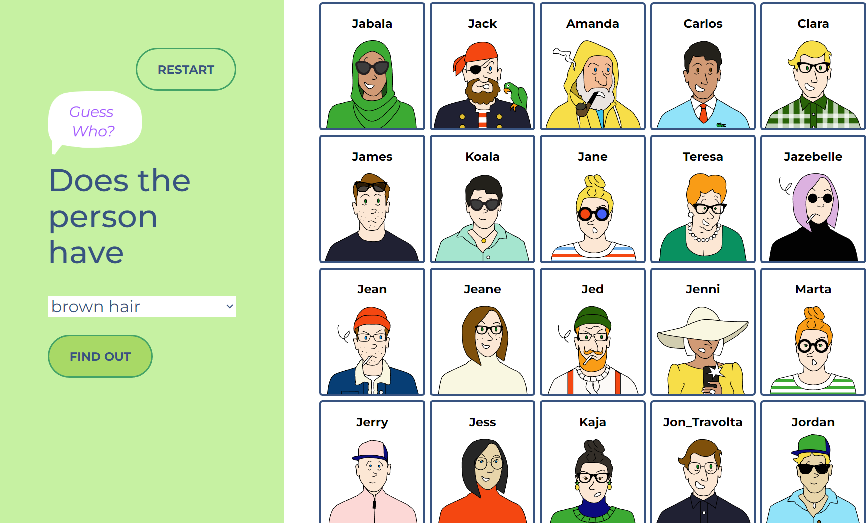
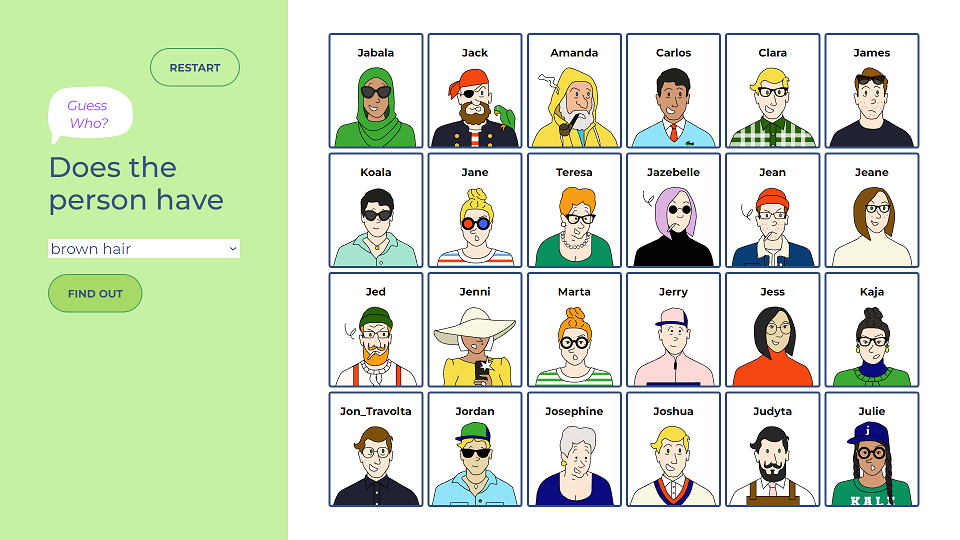
styling desktop

diff --git a/index2.html b/index2.html
@@ -56,51 +56,81 @@
             </div>    
             <div class="projects">
                 <h1>FEAUTURED PROJECTS</h1>
-    
-                <!--Guess Who game-->
-                <article class="guessWho">
-                    <span>"Guess Who" game</span>
-                    <a href="https://6313a57cffd9444a4f961a7f--voluble-bublanina-ab2e99.netlify.app/code/" 
-                        target="_blank">            
-                        <img src="./Pictures/GuessWhoPicture.PNG" alt="project picture"/>
-                        <p> Digital version of the popular children game "Guess Who" made using HTML, CSS and JavaScript</p></a>
-                        <div class="tags">
-                        <p>HTML</p>
-                        <p>CSS</p>
-                        <p>JavaScript</p>
-                        </div> <!--tags-->
-                </article>
-    
-                <!--Weather App-->
-                <article class="weatherApp">
-                    <span>Weather App</span>
-                    <a href="https://weatherappjessicaandkaja.netlify.app/"
-                        target = "_blank">
-                        <img src="./Pictures/weatherApp.JPG" alt="weather App picture" />            
-                        <p>
-                        Simple webside showing weather in Stockholm with 5 days forecast. 
-                        API fetched from OpenWeatherMap</p  ></a>
-                    <div class="tags">
+                    <!--Guess Who game-->
+                <div class="grid">
+                    <article class="guessWho">
+                        <span>"Guess Who" game</span>
+                        <a href="https://6313a57cffd9444a4f961a7f--voluble-bublanina-ab2e99.netlify.app/code/" 
+                            target="_blank">            
+                            <img src="./Pictures/GuessWhoPicture.PNG" alt="project picture"/>
+                            <p> Digital version of the popular children game "Guess Who" made using HTML, CSS and JavaScript</p></a>
+                            <div class="tags">
                             <p>HTML</p>
                             <p>CSS</p>
                             <p>JavaScript</p>
-                            <p>API</p>
-                    </div> <!--tags-->
-                </article>
-    
-                <!--chat bott-->
-                <article class="chatBott">
-                    <span> Chat bot</span>
-                    <a href=https://funny-arithmetic-9bbbd2.netlify.app
-                        target="_blank">
-                        <img src="./Pictures/Chat Bot with series recommendations.png" alt="weather App picture" />            
-                        <p>Netflix inspired chat bot with serias recommendation</p></a>
+                            </div> <!--tags-->
+                    </article>
+        
+                    <!--Weather App-->
+                    <article class="weatherApp">
+                        <span>Weather App</span>
+                        <a href="https://weatherappjessicaandkaja.netlify.app/"
+                            target = "_blank">
+                            <img src="./Pictures/weatherApp.JPG" alt="weather App picture" />            
+                            <p>
+                            Simple webside showing weather in Stockholm with 5 days forecast. 
+                            API fetched from OpenWeatherMap</p  ></a>
                         <div class="tags">
-                            <p>HTML</p>
-                            <p>CSS</p>
-                            <p>JavaScript</p>
+                                <p>HTML</p>
+                                <p>CSS</p>
+                                <p>JavaScript</p>
+                                <p>API</p>
                         </div> <!--tags-->
-                </article>
+                    </article>
+        
+                    <!--chat bott-->
+                    <article class="chatBott">
+                        <span> Chat bot</span>
+                        <a href="https://funny-arithmetic-9bbbd2.netlify.app"
+                            target="_blank">
+                            <img src="./Pictures/Chat Bot with series recommendations.png" alt="weather App picture" />            
+                            <p>Netflix inspired chat bot with serias recommendation</p></a>
+                            <div class="tags">
+                                <p>HTML</p>
+                                <p>CSS</p>
+                                <p>JavaScript</p>
+                            </div> <!--tags-->
+                    </article>
+                    <article class="survey">
+                        <span> Simple survey build in React</span>
+                        <a href="https://travelproposalsurvey.netlify.app/"
+                            target="_blank">
+                            <img src="./Pictures/Survey.png" alt="picture of project survey" />            
+                            <p>Assigment is a simple survey that could be use in travel agency as a 
+                                form that customer who wish to get an offer fils and send to the office.</p></a>
+                            <div class="tags">
+                                <p>HTML</p>
+                                <p>CSS</p>
+                                <p>JavaScript</p>
+                                <p>React</p>
+                            </div> <!--tags-->
+                    </article>
+                    <article class="music-release">
+                        <span> Music release project using REACT</span>
+                        <a href="https://musicreleaseprojectmariaandkaja.netlify.app/"
+                            target="_blank">
+                            <img src="./Pictures/Music-project.png" alt="music release project's picture" />            
+                            <p>Music release project based on Spotify API</p></a>
+                            <div class="tags">
+                                <p>HTML</p>
+                                <p>CSS</p>
+                                <p>JavaScript</p>
+                                <p>React</p>
+                                <p>API</p>
+                            </div> <!--tags-->
+                    </article>
+                </div> <!--grid-->
+            </div>
         <section class="myThoughts">
             <h1>My Thoughts</h1>
                 <h3>bla bla bla bla</h3>
@@ -111,7 +141,7 @@
                     
         </section>
         <section class="skills">
-            <h1>SKILLS</h1>
+            <h1>Skills</h1>
                 <div class="code">
                     <ul>
                         <li>HTML</li>

diff --git a/stylingNew.css b/stylingNew.css
@@ -1,3 +1,7 @@
+* {
+    outline: 1px solid red;
+  } /* CSS debugging tool */
+
 body {
     font-family: Montserrat;
     font-weight: 700;
@@ -75,7 +79,7 @@ footer {
 }
 
 .about_me {
-    margin: 90px 10px 0px 10px;
+    margin-top: 90px;
     padding: 20px;  
     
 }
@@ -83,7 +87,7 @@ footer {
 .techWrapper {
     padding: 20px;
 }
-  .tech h1, .projects h1 {
+  .tech h1, .projects h1, .myThoughts h1, .skills h1, .for_more h1  {
     background-color: #779a96;
     text-align: center;
 
@@ -91,10 +95,8 @@ footer {
 
  .projects img {
     padding-top: 10px;
-    width: 90%;
-    margin-left: 1;
-    margin-left: 15px;
-    margin-right: 15px;
+    width: 100%;
+    
  }
 
  .projects a {
@@ -106,15 +108,22 @@ footer {
     font-size: 16px;
  }
 
+ .projects span {
+    font-weight: bold;
+    font-size: 20px;
+    color:#465a58;
+ }
+
+
  .tags {
     display:flex;
+    padding-bottom: 5px;
   }
   
   .tags p {
       font-family: "Roboto", sans-serif;
       font-weight: bold;
-      background-color: #7b9f9b
-  ;
+      background-color: #7b9f9b;
       text-decoration: none;
   
        /* Matching line-height and font-size here gives full control 
@@ -132,9 +141,70 @@ footer {
       border-radius: 5px;
   }
 
+  .code, .toolbox, .more {
+    display:inline-block;
+ }
+
   .code ul, .toolbox ul, .More ul{
-    list-style-type: none;
     display: flex;
     flex-direction: column;
-    align-items: center;
   }
+
+
+
+  @media screen and (min-width: 1024px) {
+    .grid {
+        display: grid;
+        grid-template-columns: repeat(2, 1fr);
+        grid-template-rows: ;
+        grid-column-gap: 0px;
+        grid-row-gap: 0px;
+    }
+
+    article {
+        display: flex;
+        flex-direction: column;
+        width: 80%;
+        padding: 20px;
+    }
+    .projects img {
+        width:100%;
+    }
+
+    .projects span {
+     display: table;
+     margin:auto;
+    }
+    .projects p {
+        font-size: 18px;
+    }
+
+    .tech h1, .projects h1, .myThoughts h1, .skills h1, .for_more {
+        font-size: 30px;
+    }
+   h3 {
+    font-size: 25px;
+   }
+
+   .icons_header{
+    display: flex;
+    flex-direction: row;
+    font-size:45px;
+}
+
+   .icons_header a {
+    margin-left:15px;
+   }
+   .icons_header i {
+    font-size: 60px;
+   }
+
+   .myPicture {
+    left: 750px;
+    width: 200px;
+    height: 200px;
+    top: 400px;
+   }
+   }
+    
+  
